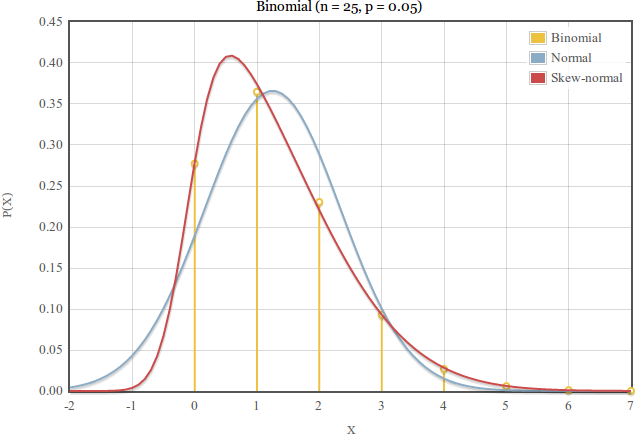
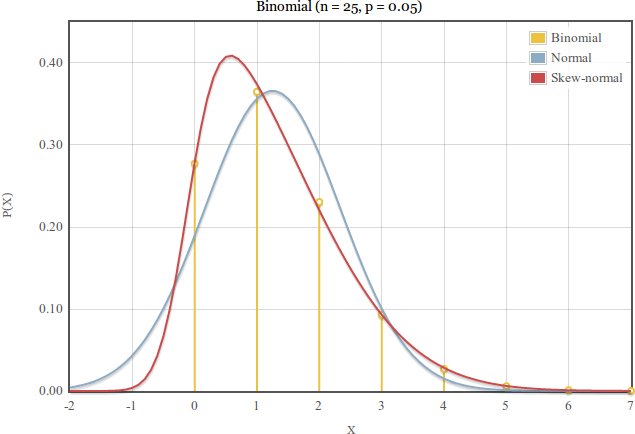
Put an upper bound on y in binomial-normal-sn graphs.

diff --git a/project/calc/flot-pres/binomial-normal-sn.html b/project/calc/flot-pres/binomial-normal-sn.html
@@ -64,6 +64,9 @@
           xaxis: {
             min: -2,
             max: 7 
+          },
+          yaxis: {
+            max:0.45
           }
         };
         $('body').append(html[
@@ -102,6 +105,9 @@
           xaxis: {
             min: -2,
             max: 7 
+          },
+          yaxis: {
+            max: 0.45
           }
         };
         $('body').append(html[
